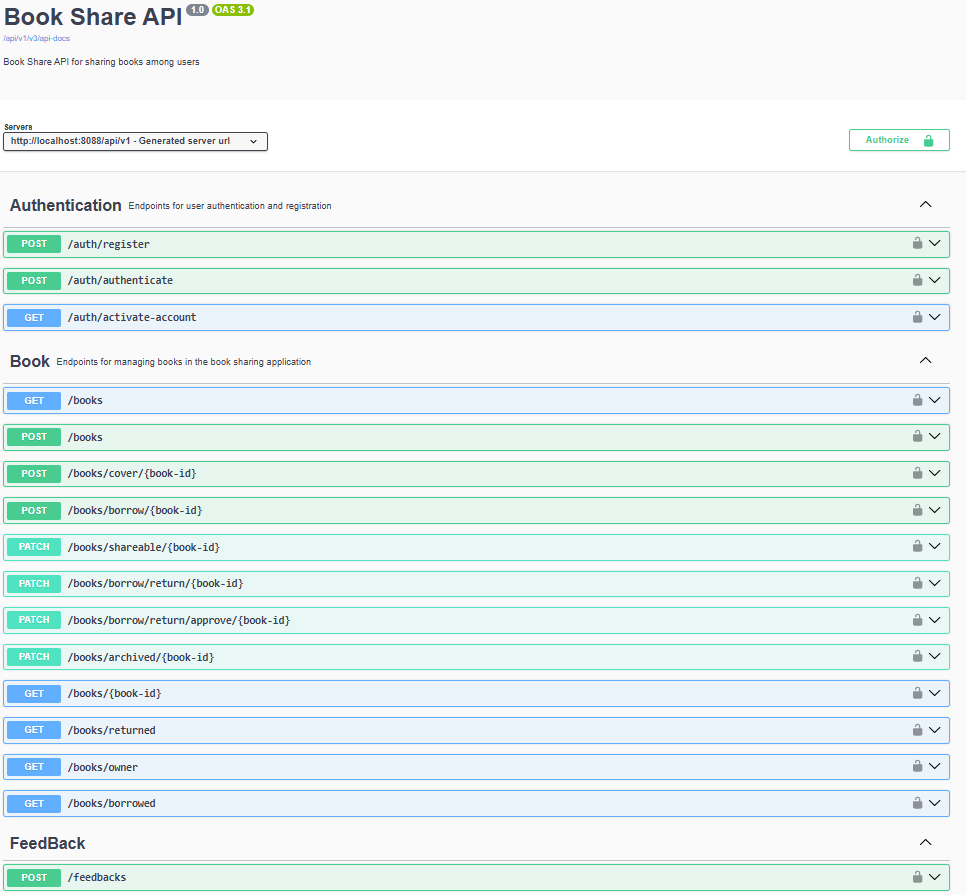
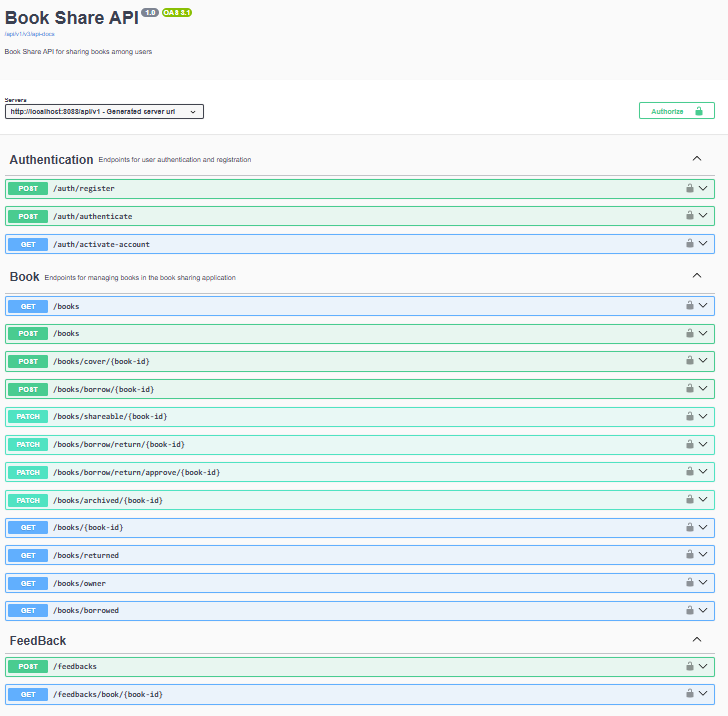
feat(feedback): expose paginated feedback endpoint and update docs
- Added `GET /feedbacks/book/{book-id}` endpoint in `FeedbackController` to fetch paginated feedbacks.
- Updated Swagger API documentation screenshot in README to reflect the newly added endpoints.

diff --git a/backend/src/main/java/com/yavuz/book_share/feedback/FeedbackController.java b/backend/src/main/java/com/yavuz/book_share/feedback/FeedbackController.java
@@ -1,7 +1,10 @@
 package com.yavuz.book_share.feedback;
 
 import org.springframework.web.bind.annotation.RequestMapping;
+import org.springframework.web.bind.annotation.RequestParam;
 import org.springframework.web.bind.annotation.RestController;
+
+import com.yavuz.book_share.book.PageResponse;
 
 import io.swagger.v3.oas.annotations.tags.Tag;
 import jakarta.validation.Valid;
@@ -9,6 +12,8 @@ import lombok.RequiredArgsConstructor;
 
 import org.springframework.security.core.Authentication;
 import org.springframework.http.ResponseEntity;
+import org.springframework.web.bind.annotation.GetMapping;
+import org.springframework.web.bind.annotation.PathVariable;
 import org.springframework.web.bind.annotation.PostMapping;
 import org.springframework.web.bind.annotation.RequestBody;
 
@@ -26,6 +31,14 @@ public class FeedbackController {
             Authentication connectedUser) {
 
         return ResponseEntity.ok(feedBackService.save(request, connectedUser));
+    }
+
+    @GetMapping("/book/{book-id}")
+    public ResponseEntity<PageResponse<FeedBackResponse>> findAllFeedBackByBook(@PathVariable("book-id") Integer bookId,
+            @RequestParam(name = "page", defaultValue = "0", required = false) int page,
+            @RequestParam(name = "size", defaultValue = "10", required = false) int size,
+            Authentication connectedUser) {
+        return ResponseEntity.ok(feedBackService.findAllFeedBackByBook(bookId, page, size, connectedUser));
     }
 
 }
